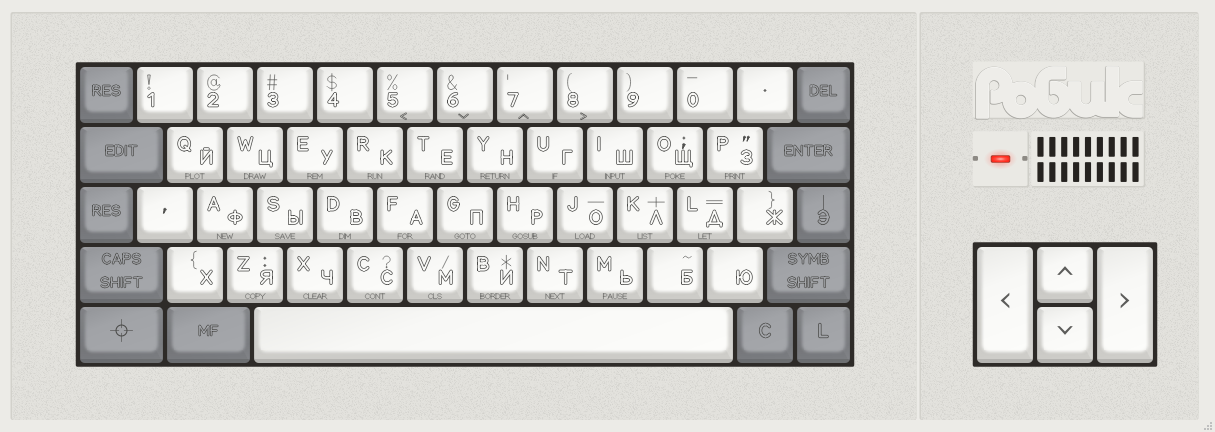
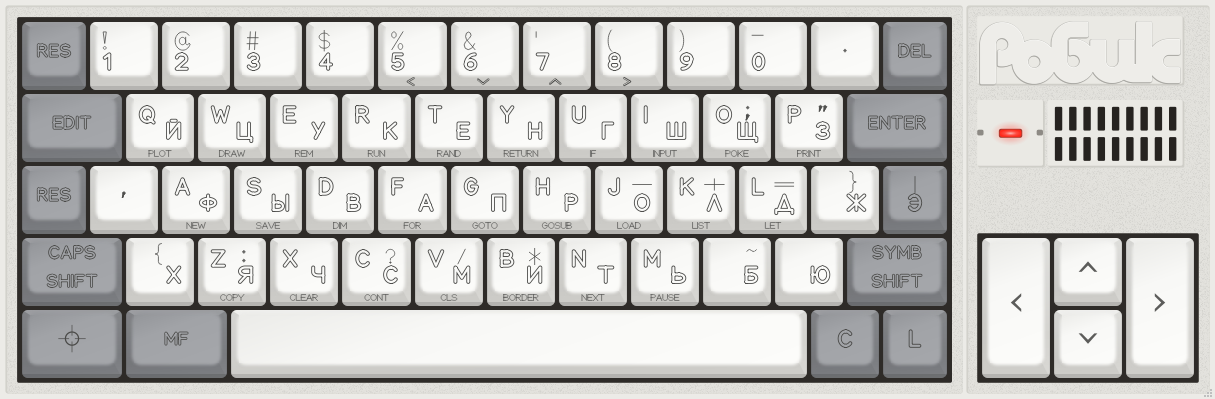
manual: the Robik's own keys on its skins, Robik (Compact) by machine and in the picture

diff --git a/docs/manual/view.md b/docs/manual/view.md
@@ -289,13 +289,14 @@ is easier with the 128K's close-set keys:
   also drag its edge; the picture keeps its shape and is drawn sharp at any size.
 - **Skin** - **48K (Classic)**, **48K (White)**, **128K (Classic)**, **128K (White)**,
   **Next (Black)**, **Next (White)**, **Next (Magenta)**, **Klava**, **Klava (Washed)**,
-  **Robik** or **Robik (Compact)**; one picked here stays whatever the machine. Klava is the
-  58-key keyboard of many clones of the early 1990s, worn, with some caps crooked and the
-  cream ones yellowed; Klava (Washed) is it clean. Robik is the keyboard of the Robik,
-  below; Robik (Compact) is it with a narrow case round the keys, so they are larger in the
-  window. **By machine**, on by default, shows the Next keyboard on the ZX
-  Spectrum Next, the 128K one on a 128K, +2, +2A or +3, the 48K one on a 48K and Klava on
-  the clones (Pentagon, Scorpion, Profi, ATM, ZX Evolution and the rest), in the tone
+  **Robik (Compact)** or **Robik (Full-Size)**; one picked here stays whatever the machine.
+  Klava is the 58-key keyboard of many clones of the early 1990s, worn, with some caps
+  crooked and the cream ones yellowed; Klava (Washed) is it clean. Robik (Full-Size) is the
+  keyboard of the Robik in its whole case; Robik (Compact), below, is it with a narrow case
+  round the keys, so they are larger in the window. **By machine**, on by default, shows
+  the Next keyboard on the ZX Spectrum Next, the 128K one on a 128K, +2, +2A or +3, the 48K
+  one on a 48K, Robik (Compact) on the Robik and Klava on the other clones (Pentagon,
+  Scorpion, Profi, ATM, ZX Evolution and the rest), in the tone
   picked last: Klava (Washed) if it was picked; only the Next has a Magenta one, the others
   show their classic one. The window's title names the skin it shows.
 - **Dock under the emulator** - the keyboard loses its frame and sits under the main window,
@@ -322,7 +323,7 @@ and the two Symbol Shifts only one lights up: the one you clicked, otherwise the
 side of the PC key that holds it (the right Shift lights the right one), otherwise the left
 one.
 
-![The Robik skin](images/virtual-keyboard-robik.png)
+![The Robik (Compact) skin](images/virtual-keyboard-robik.png)
 
 The Robik keyboard has keys the Spectrum has not:
 
@@ -331,9 +332,10 @@ The Robik keyboard has keys the Spectrum has not:
   gamepad too.
 - The two RES keys reset the machine together, as on the real one: a click on one does
   nothing but hold it. Right-click one RES to lock it down, then click the other.
-- Edit and Del are Caps Shift with 1 and with 0; the full stop and the comma are Symbol
-  Shift with M and with N.
-- Х, Ж, Э, Б, Ю, C, L and MF do nothing yet.
+- On the Robik, Edit, Del, the full stop, the comma, Х, Ж, Э, Б, Ю, C and L are its own
+  keys. On other machines Edit and Del are Caps Shift with 1 and with 0, the full stop and
+  the comma Symbol Shift with M and with N, and the rest do nothing.
+- MF does nothing: on the Robik it is wired to nothing.
 - The red light under the logo is the power light: always on.
 
 For layout authors: a file `zx-black.json`, `zx-white.json`, `zx-128.json`,
